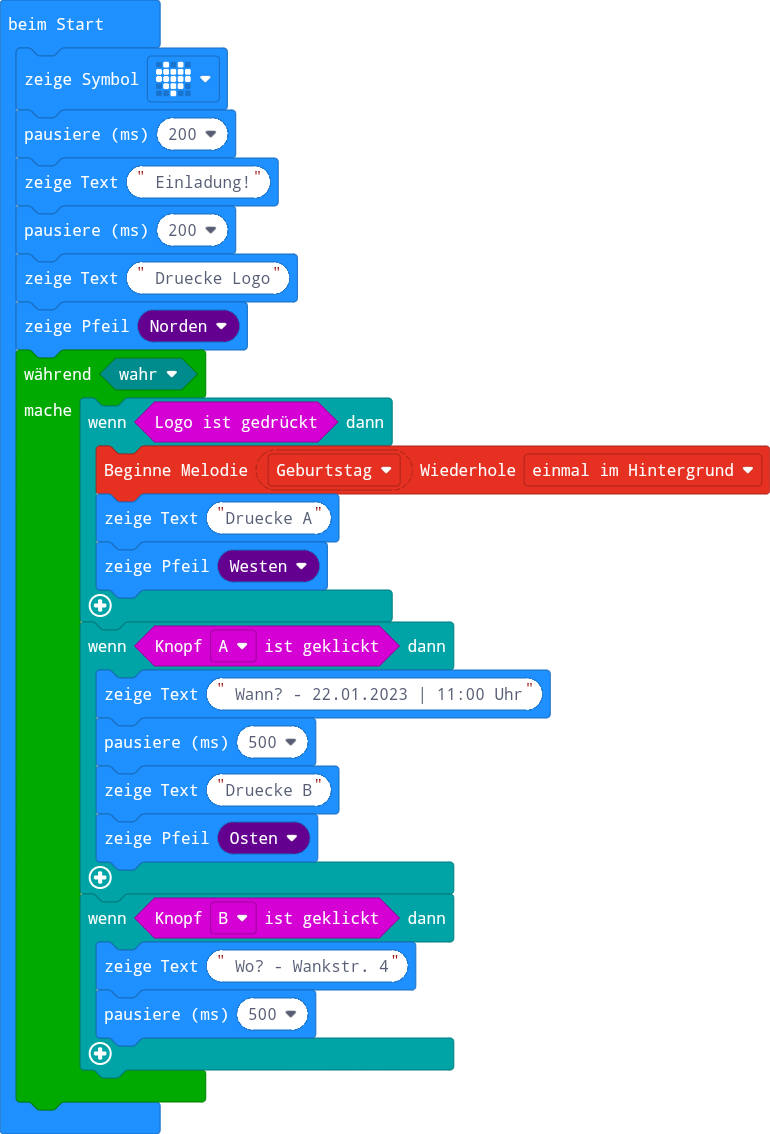
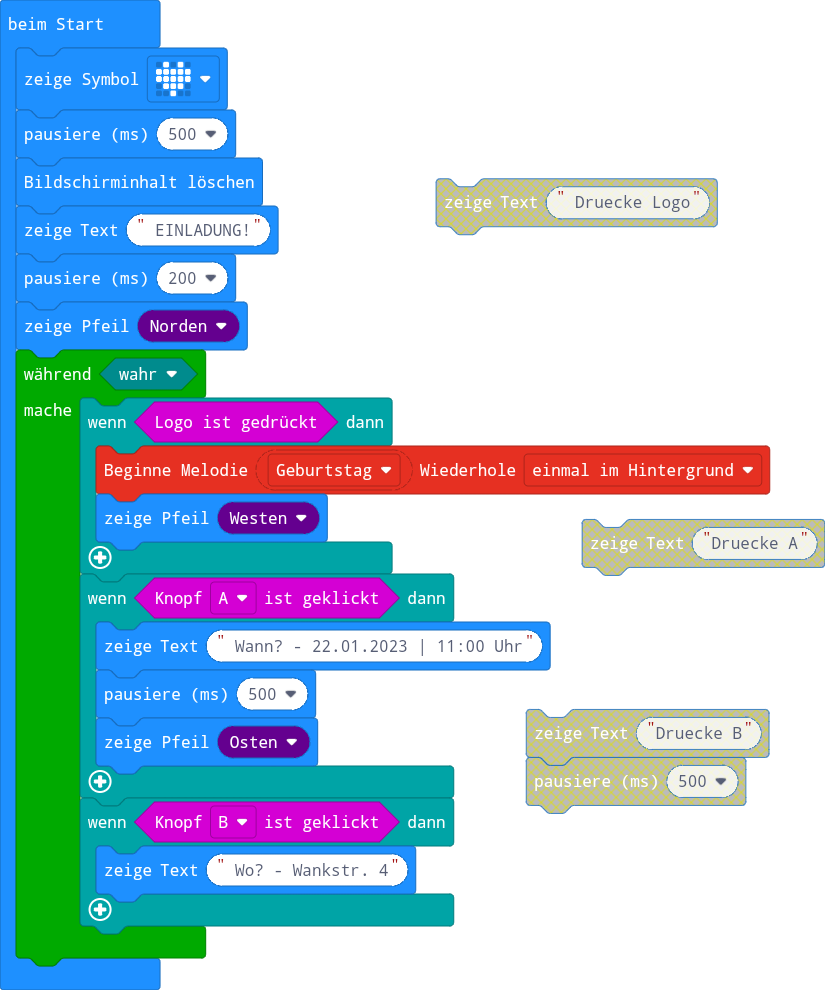
Aktualisiere main.blocks, main.ts

diff --git a/main.ts b/main.ts
@@ -1,23 +1,20 @@
 basic.showIcon(IconNames.Heart)
+basic.pause(500)
+basic.clearScreen()
+basic.showString(" EINLADUNG!")
 basic.pause(200)
-basic.showString(" Einladung!")
-basic.pause(200)
-basic.showString(" Druecke Logo")
 basic.showArrow(ArrowNames.North)
 while (true) {
     if (input.logoIsPressed()) {
         music.startMelody(music.builtInMelody(Melodies.Birthday), MelodyOptions.OnceInBackground)
-        basic.showString("Druecke A")
         basic.showArrow(ArrowNames.West)
     }
     if (input.buttonIsPressed(Button.A)) {
         basic.showString(" Wann? - 22.01.2023 | 11:00 Uhr")
         basic.pause(500)
-        basic.showString("Druecke B")
         basic.showArrow(ArrowNames.East)
     }
     if (input.buttonIsPressed(Button.B)) {
         basic.showString(" Wo? - Wankstr. 4")
-        basic.pause(500)
     }
 }
